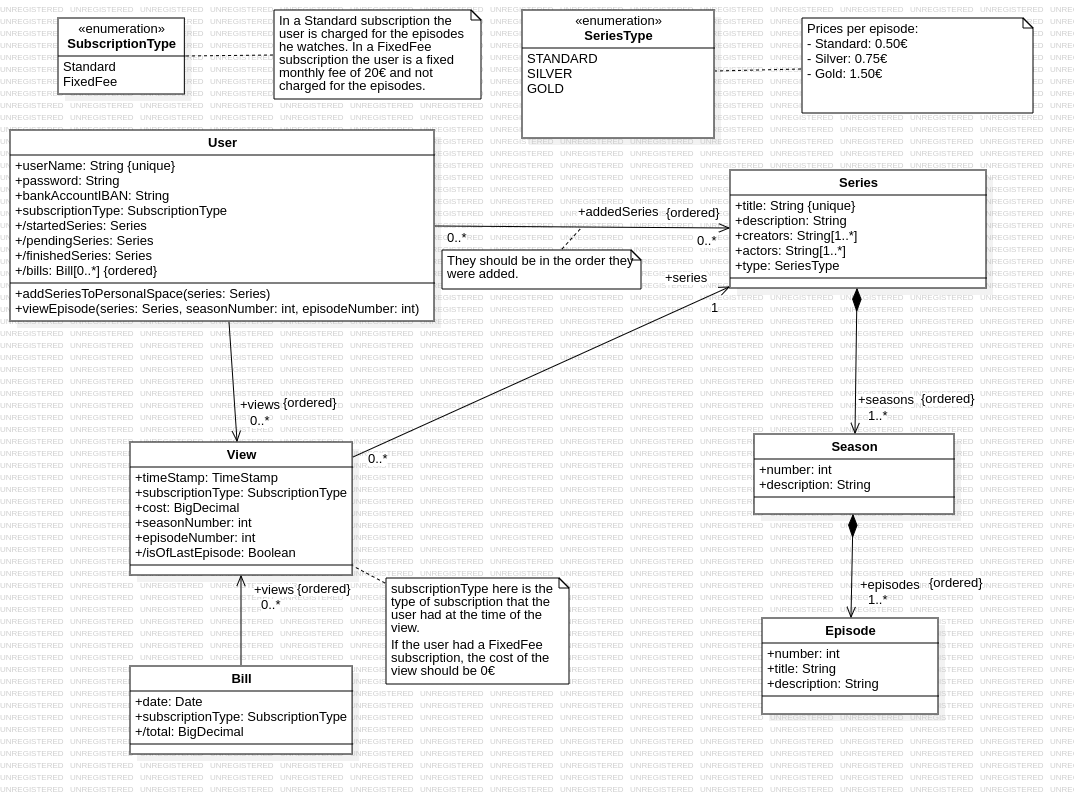
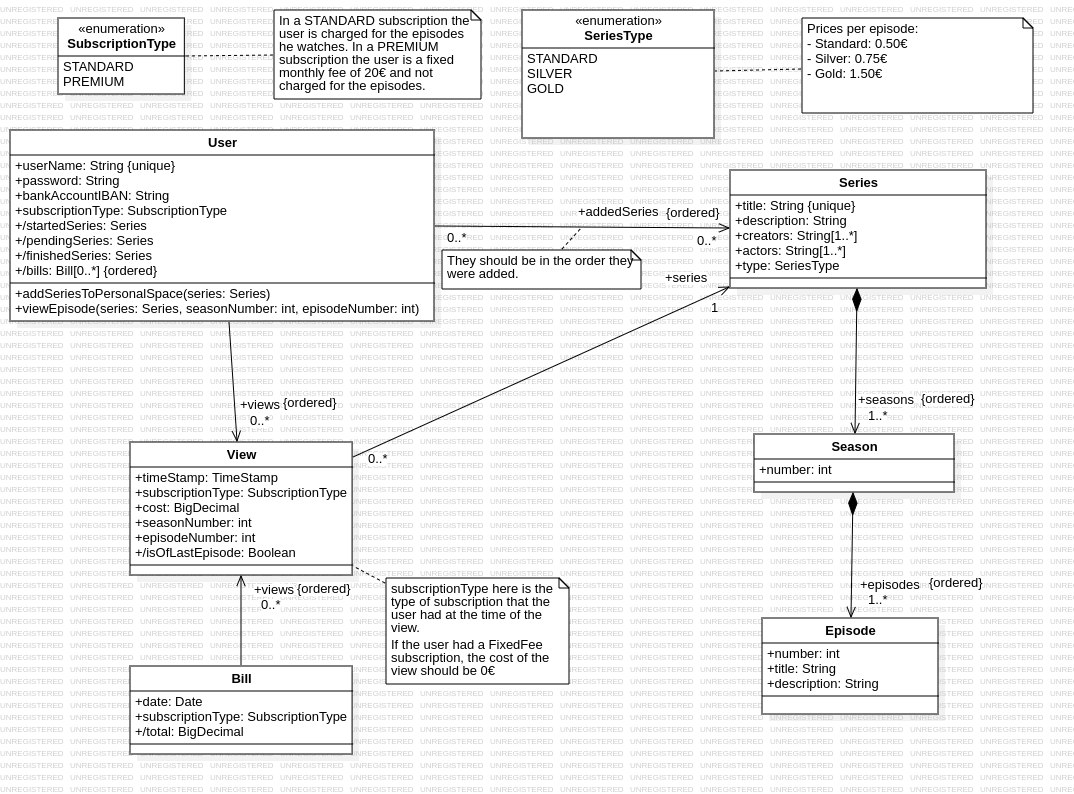
Remove description from Season and fix diagram

Changed region(s): [[0.7067, 0.6045, 0.8911, 0.665], [0.2765, 0.0, 0.4302, 0.0605], [0.0615, 0.0605, 0.1229, 0.1209]]

diff --git a/src/main/kotlin/com/mehdiflix/mehdiflix/domain/Series.kt b/src/main/kotlin/com/mehdiflix/mehdiflix/domain/Series.kt
@@ -25,7 +25,6 @@ enum class SeriesType(val episodePrice: BigDecimal) {
 @Entity
 data class Season(
     var number: Int,
-    var description: String,
     @OneToMany(cascade = [CascadeType.ALL])
     var episodes: MutableList<Episode>,
     @Id @GeneratedValue
